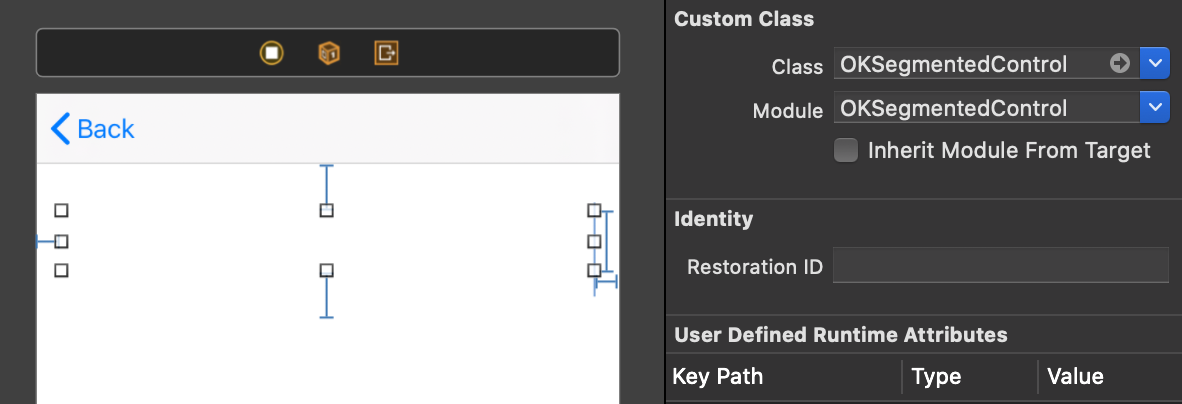
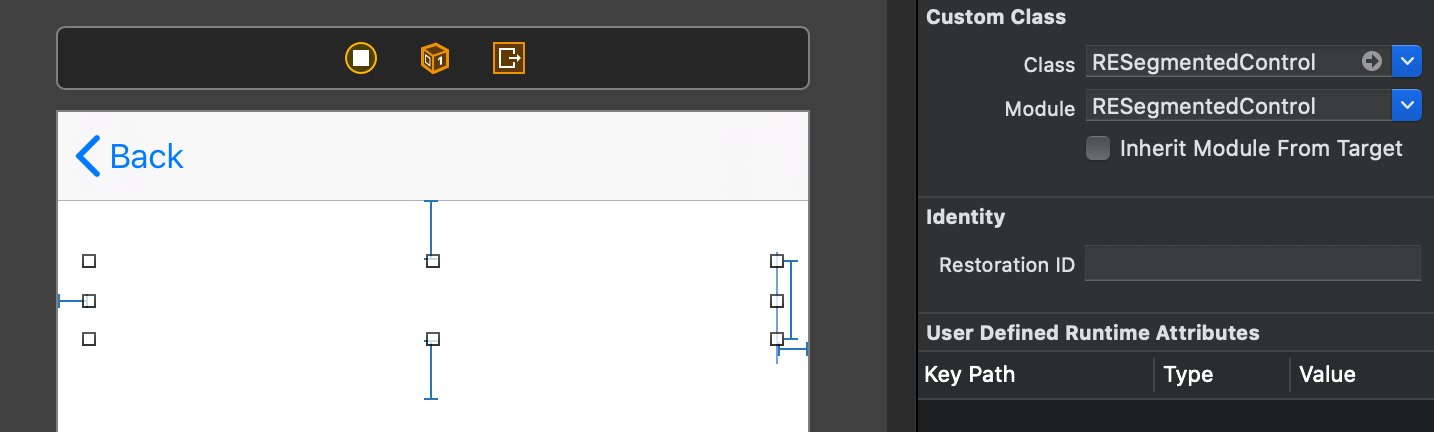
added images and updated readme

diff --git a/README.md b/README.md
@@ -1,29 +1,209 @@
-# RESegmentedControl
 
-[![CI Status](https://img.shields.io/travis/Sherzod Khashimov/RESegmentedControl.svg?style=flat)](https://travis-ci.org/Sherzod Khashimov/RESegmentedControl)
-[![Version](https://img.shields.io/cocoapods/v/RESegmentedControl.svg?style=flat)](https://cocoapods.org/pods/RESegmentedControl)
-[![License](https://img.shields.io/cocoapods/l/RESegmentedControl.svg?style=flat)](https://cocoapods.org/pods/RESegmentedControl)
-[![Platform](https://img.shields.io/cocoapods/p/RESegmentedControl.svg?style=flat)](https://cocoapods.org/pods/RESegmentedControl)
+# RESegmentedControl (In progress...)
 
-## Example
+[![CI Status](https://img.shields.io/travis/sh-khashimov/RESegmentedControl.svg?style=flat)](https://travis-ci.org/sh-khashimov/RESegmentedControl)
+[![Version](https://img.shields.io/cocoapods/v/RESegmentedControl.svg?style=flat)](https://cocoapods.org/pods/OKSegmentedControl)
+[![License](https://img.shields.io/cocoapods/l/RESegmentedControl.svg?style=flat)](https://cocoapods.org/pods/OKSegmentedControl)
+[![Platform](https://img.shields.io/cocoapods/p/RESegmentedControl.svg?style=flat)](https://cocoapods.org/pods/OKSegmentedControl)
 
-To run the example project, clone the repo, and run `pod install` from the Example directory first.
+Customizable Segmented Control.
 
-## Requirements
+## Features
+
+- Customizable
+- Adaptive and dynamic layout
+- Can load images from remote server
+- Layout-Driven UI
+- Natural animations
+
+# Getting Started
+
+- [**How to use**](#how-to-use)
+- [**Layout Types**](#layout-types)
+- [**Actions**](#actions)
+- [**Presets and Styles**](#presets-and-styles)
+
+
+## How to use
+
+Here is a simple steps to use Segmented Control.
+
+- Specify list of string that will be shown in segmented control:
+
+``` Swift
+/// List of items
+let items = ["safari", "chrome", "firefox"]
+```
+- Create a Segmented Control using storyboard and @IBOutlet to your ViewController:
+
+![storyboard](Images/storyboard.png)
+
+``` Swift
+/// Segmented Control
+@IBOutlet weak var segmentedControl: SegmentedControl!
+```
+Or create a Segmented Control programmatically:
+
+``` Swift
+let segmentedControl = SegmentedControl(frame: CGRect(x: 0, y: 0, width: 200, height: 44))
+self.view.addSubview(segmentedControl)
+// Add segmentedControl Layouts…
+```
+- Create list of segment items:
+
+``` Swift
+// List of segment items
+var segmentItems: [SegmentModel] {
+	return items.map({ SegmentModel(title: $0, imageName: $0) })
+}
+```
+- Create a Preset to style the Segmented Control:
+
+``` Swift
+// Segmented Control Styles Preset
+let preset = BootstapPreset(backgroundColor: .white, selectedBackgroundColor: .black)
+```
+- Configure your Segmented Control with items and preset: 
+
+``` Swift
+// Segmented Control configuration method
+segmentedControl.configure(segmentItems: segmentItems, preset: preset)
+```
+> *Still have questions, take a look to the example project.*
+
+## Layout Types
+
+<img align="right" src="./Images/1.png" width="360"/>
+
+It’s possible to show content in three way. `Segmented Control` could be show with text only, image inly or text with image.
+
+- To show titles, initiate a `SegmentModel` with `title` variable:
+
+``` Swift
+let segmentsItem: [SegmentModel] = [SegmentModel(title: “Title”)]
+```
+- To show images, initiate a `SegmentModel` with `imageName` variable:
+
+``` Swift
+let segmentsItem: [SegmentModel] = [SegmentModel(imageName: “imageNameInAseetCatalog”)]
+```
+or `imageUrl` variable to load image from remote server:
+``` Swift
+let imageUrl = “https://domain.com/image.png”
+let segmentsItem: [SegmentModel] = [SegmentModel(imageUrl: imageUrl)]
+```
+- To show titles and images, initiate a `SegmentModel` with `title` and `imageName`  or `imageUrl` variable:
+
+``` Swift
+let segmentsItem: [SegmentModel] = [SegmentModel(title: “Title”, imageName: “imageNameInAseetCatalog”)]
+
+// Image remote location url
+let imageUrl = “https://domain.com/image.png”
+let segmentsItem: [SegmentModel] = [SegmentModel(title: “Title”, imageUrl: imageUrl)]
+```
+> *For more information, see `BasicExampleViewController` in the example project.*
+
+## Actions
+
+<img align="right" src="./Images/3.png" width="360"/>
+
+Here is the list of available API:
+
+- Dynamically adds item:
+``` Swift
+func addItem(_ item: SegmentModel, atIndex index: Int? = nil)
+```
+
+- Dynamically removes item:
+``` Swift
+func removeItem(atIndex index: Int? = nil)
+```
+
+- Returns segment items count:
+``` Swift
+var segmentItemsCount: Int
+```
+
+- Returns or dynamically changes selected index:
+``` Swift
+var selectedSegmentIndex: Int
+```
+
+- Deselects selected segment item:
+``` Swift
+func deselect()
+```
+
+> *For more information, see `ActionViewController` in the example project.*
+
+## Presets and Styles
+
+<img align="right" src="./Images/2.png" width="360"/>
+
+`SegmentControl` supports a wide range of customization appearance. It is also possible to apply ready-made presets of styles or create your own preset.
+
+Currently 4 presets are available:
+- iOS7Preset - Stylizes to iOS7 system style.
+
+``` swift
+struct iOS7Preset: SegmentedControlPresettable
+```
+- iOS13Preset - Stylizes to iOS13 system style.
+
+``` swift
+struct iOS13Preset: SegmentedControlPresettable
+```
+- MaterialPreset - Stylizes to Material style.
+
+``` swift
+struct MaterialPreset: SegmentedControlPresettable
+```
+
+- BootstapPreset - Preset with minimal pre-stylization, designed to customize the preset to fit your needs.
+
+``` swift
+struct BootstapPreset: SegmentedControlPresettable
+```
+
+> *For more information, see `PresetsViewController` in the example project.*
+
+
+
+To learn more about how to create a preset, follow the [**Creating a Preset Guide**](/Documentation/Preset.md).
+
 
 ## Installation
 
-RESegmentedControl is available through [CocoaPods](https://cocoapods.org). To install
-it, simply add the following line to your Podfile:
+To learn more see a full [**API Reference**](https://kean.github.io/Nuke/reference/8.0/index.html), and check out the demo project included in the repository. When you are ready to install, follow the [**Installation Guide**](/Documentation/Installation.md). See [**Requirements**](#h_requirements) for a list of supported platforms.
 
-```ruby
-pod 'RESegmentedControl'
-```
+### Insparation
+
+- [WWDC 2018: Adding Delight to your iOS App](https://developer.apple.com/videos/play/wwdc2018/233)
+
+
+
+<a name="h_requirements"></a>
+# Requirements
+
+
+| App name              | Swift             | Xcode              | Platforms                                         |
+|-------------------|-------------------|--------------------|---------------------------------------------------|
+| App name 0.5 - current version    | Swift 5.0 – 5.1   | Xcode 10.2 – 11    | iOS 9.0  |
+
+## Contributing
+Pull requests are welcome. For major changes, please open an issue first to discuss what you would like to change.
+
+Please make sure to update tests as appropriate.
 
 ## Author
 
-Sherzod Khashimov, sh.khashimov@gmail.com
+Sherzod Khashimov
+
+- [**https://github.com/gmarm**](https://github.com/gmarm)
+- [**https://twitter.com/gmarmas**](https://twitter.com/gmarmas)
+- [**https://www.linkedin.com/in/gmarm**](https://www.linkedin.com/in/gmarm)
+- [**gmarmas@gmail.com**](malito:gmarmas@gmail.com)
 
 ## License
 
-RESegmentedControl is available under the MIT license. See the LICENSE file for more info.
+OKSegmentedControl is available under the MIT license. See the LICENSE file for more info.
